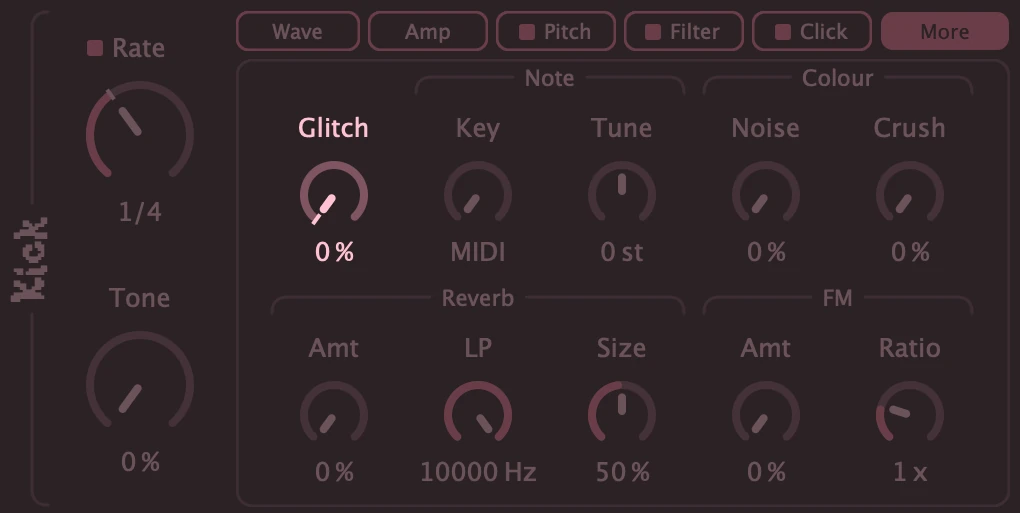
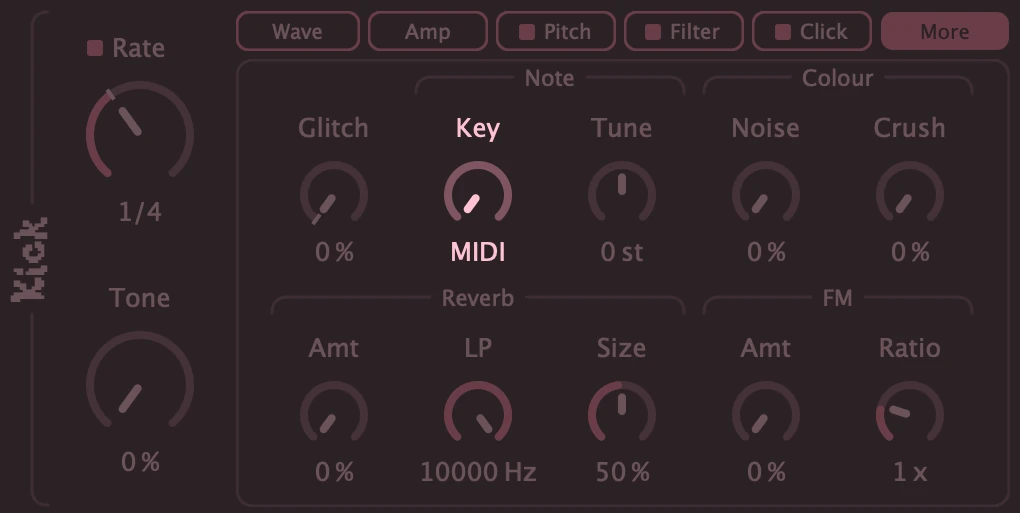
KerBy: the kick-key crop highlights Key again, now Glitch leads the More tab
Glitch moved to the More tab's first cell in the plugin, so the
highlighted crop on Learn's "Keep the kick on one note" had been lighting
up Glitch. Regenerated by site-images.py with its search window moved to
Key; every other site image matched pixel for pixel. The Reference's More
tab alt text lists the knobs in their new order.

diff --git a/kerby/reference/index.html b/kerby/reference/index.html
@@ -468,7 +468,7 @@
                                         srcset="/assets/images/software/kerby-learn/kerby-kick-more-dark.webp">
                                     <img src="/assets/images/software/kerby-learn/kerby-kick-more-light.webp"
                                         width="1020" height="513" loading="lazy" alt="The kick’s More tab: Tone at the
-                                        left; Key, Tune, Noise, Crush and Glitch; then Reverb Amt, LP and Size, and FM
+                                        left; Glitch, Key, Tune, Noise and Crush; then Reverb Amt, LP and Size, and FM
                                         Amt and Ratio.">
                                 </picture>
                             </figure>
